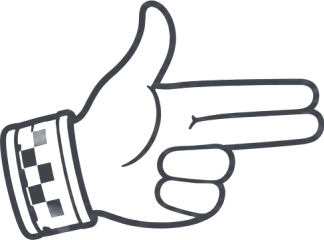
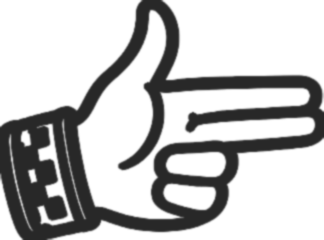
Respect hand: idle outline now uses the same ink as Save/Share (mask in currentColor, heavier line); new hand replaces the thumb everywhere (stats bar, story viewer, double-tap burst)

diff --git a/src/components/RespectGlyph.tsx b/src/components/RespectGlyph.tsx
@@ -1,0 +1,42 @@
+import type { CSSProperties } from 'react';
+import respectOn from '../assets/respect/respect-on.png';
+import respectOff from '../assets/respect/respect-off.png';
+
+// width / height of each artwork
+const RATIO_ON = 313 / 240;
+const RATIO_OFF = 324 / 240;
+
+/** The Respect hand as a static glyph. `on` is the green chrome artwork; off
+ *  is the outline drawn as a mask in `currentColor`, so it takes exactly the
+ *  same grey/ink as the neighbouring Save / Share icons. `height` in px. */
+export function RespectGlyph({
+  height,
+  on = false,
+  className = '',
+  style,
+}: {
+  height: number;
+  on?: boolean;
+  className?: string;
+  style?: CSSProperties;
+}) {
+  if (on) {
+    return (
+      <img
+        src={respectOn}
+        alt=""
+        draggable={false}
+        className={className}
+        style={{ height, width: height * RATIO_ON, maxWidth: 'none', ...style }}
+      />
+    );
+  }
+  const mask = `url(${respectOff}) center / contain no-repeat`;
+  return (
+    <span
+      aria-hidden="true"
+      className={`inline-block ${className}`}
+      style={{ height, width: height * RATIO_OFF, backgroundColor: 'currentColor', WebkitMask: mask, mask, ...style }}
+    />
+  );
+}

diff --git a/src/components/RespectIcon.tsx b/src/components/RespectIcon.tsx
@@ -1,7 +1,6 @@
 import { useEffect, useRef } from 'react';
 import { motion, useAnimation, useReducedMotion } from 'motion/react';
-import respectOn from '../assets/respect/respect-on.png';
-import respectOff from '../assets/respect/respect-off.png';
+import { RespectGlyph } from './RespectGlyph';
 
 /** The Respect reaction: CX's pointing hand — thumb up, two fingers out, a
  *  chequered racing cuff. Idle it is the graphite outline; once Respected it
@@ -72,14 +71,9 @@ export function RespectIcon({
         <path d="M5 7h6" />
         <path d="M3 13 7 10" />
       </motion.svg>
-      <motion.img
-        src={filled ? respectOn : respectOff}
-        alt=""
-        draggable={false}
-        animate={controls}
-        initial={false}
-        style={{ height: h, width: 'auto', maxWidth: 'none', originX: 0.15, originY: 0.9 }}
-      />
+      <motion.span animate={controls} initial={false} style={{ display: 'inline-flex', originX: 0.15, originY: 0.9 }}>
+        <RespectGlyph height={h} on={filled} />
+      </motion.span>
     </span>
   );
 }

diff --git a/src/components/Icon.tsx b/src/components/Icon.tsx
@@ -1,3 +1,4 @@
+import { RespectGlyph } from './RespectGlyph';
 import type { CSSProperties } from 'react';
 import {
   Search, Calendar, MapPin, Star, Heart, ChevronDown, ChevronUp, ChevronRight, ChevronLeft,
@@ -77,6 +78,10 @@ interface IconProps {
 
 export function Icon({ name, size = 20, className, style, strokeWidth = 1.8, fill }: IconProps) {
   const isFilled = fill ?? FILLED.includes(name);
+
+  if (name === 'like') {
+    return <RespectGlyph height={Math.round(size * 1.15)} on={Boolean(isFilled)} className={className} style={style} />;
+  }
 
   if (name === 'instagram' || name === 'linkedin' || name === 'twitter') {
     return (
